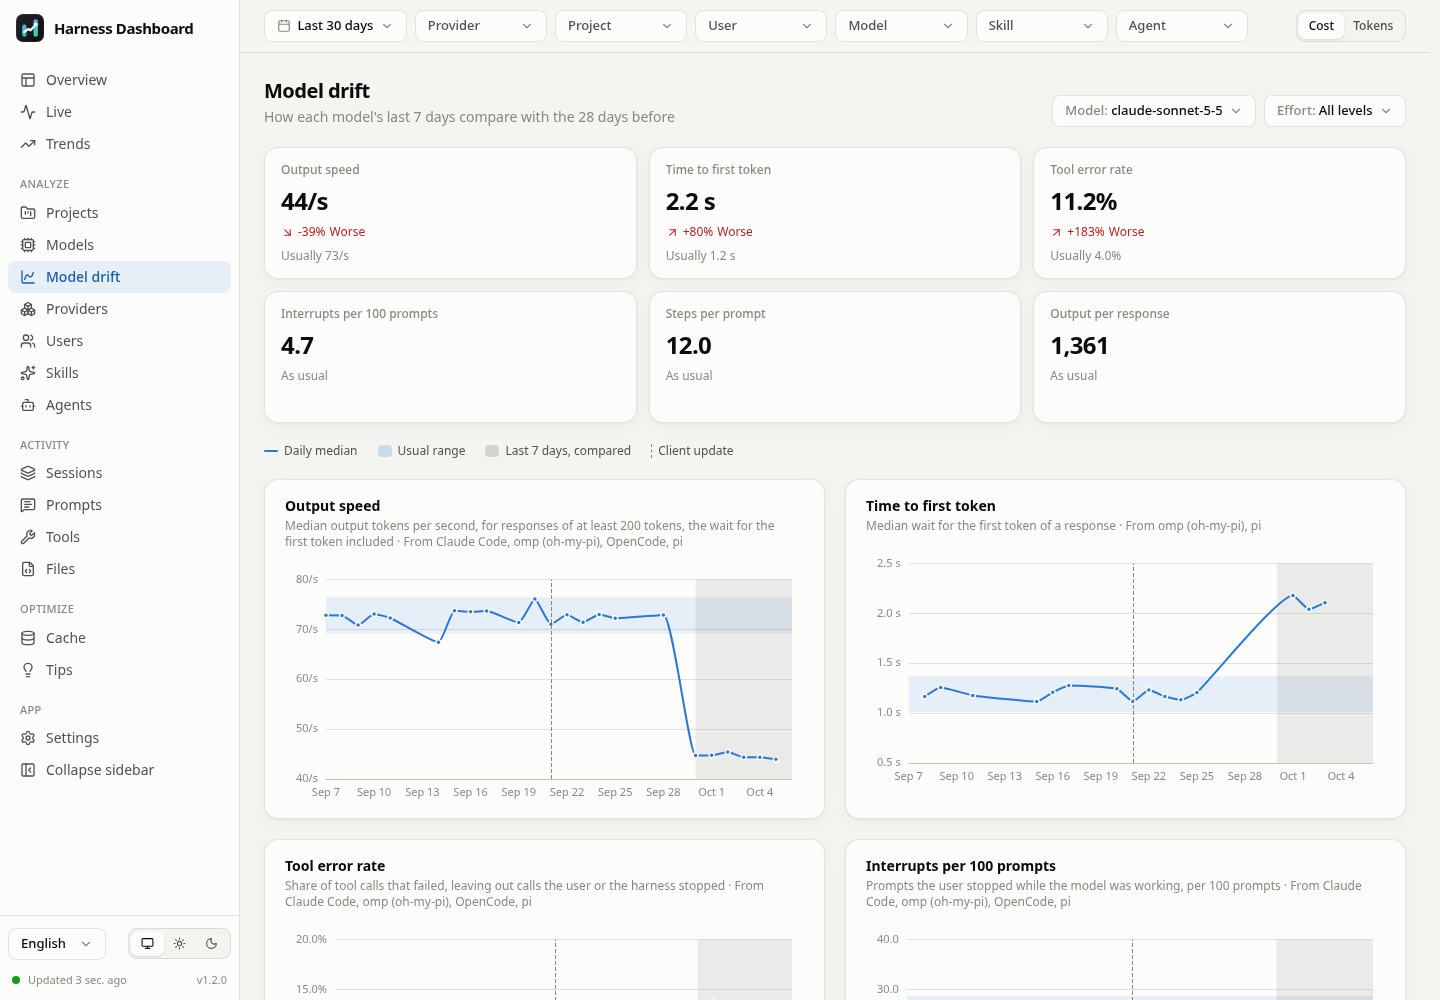
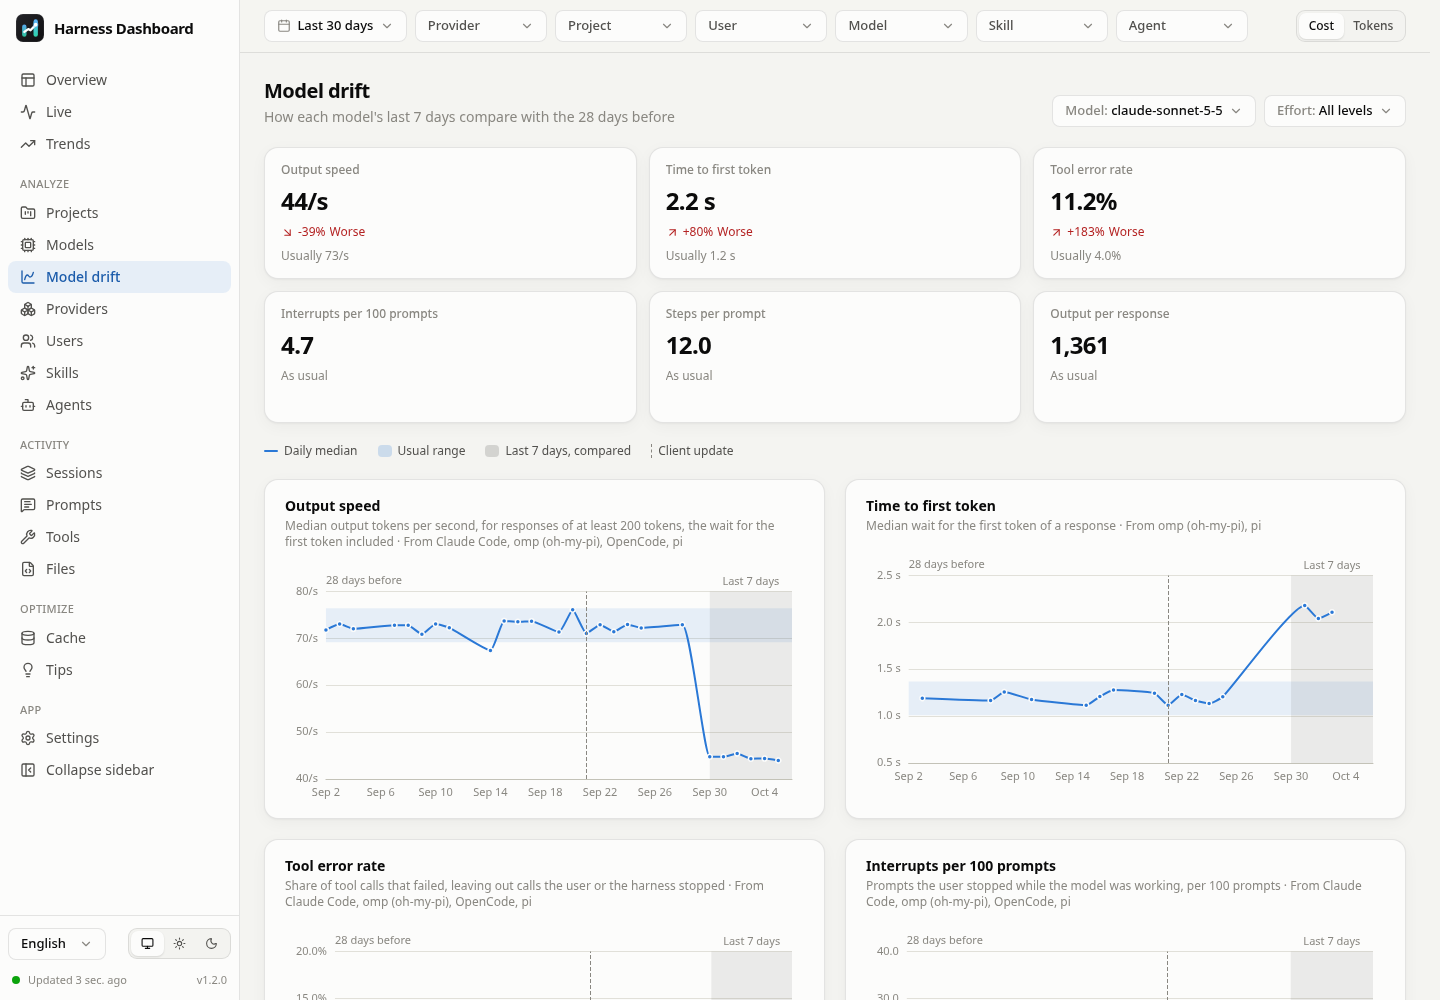
fix: chart exactly the two windows the drift view compares

diff --git a/web/src/lib/charts.ts b/web/src/lib/charts.ts
@@ -485,7 +485,7 @@ export function driftLine(o: {
   versions: { day: string; label: string }[];
   name: string;
   format: (v: number) => string;
-  labels: { samples: string; usual: string; update: string; recent: string };
+  labels: { samples: string; usual: string; update: string; recent: string; baselineWindow: string; recentWindow: string };
 }): EChartsOption {
   const c = chrome();
   const color = cssVar("--accent");
@@ -505,11 +505,15 @@ export function driftLine(o: {
   const extent = { min: Math.max(0, Math.floor((lo - pad) / step) * step), max: Math.ceil((hi + pad) / step) * step, step };
   const areas: unknown[] = [];
   if (o.band) areas.push([{ yAxis: o.band.lo, itemStyle: { color: withAlpha(color, 0.1) } }, { yAxis: o.band.hi }]);
-  if (recentIdx >= 0) areas.push([{ xAxis: recentIdx, itemStyle: { color: withAlpha(cssVar("--ink-2"), 0.1) } }, { xAxis: o.days.length - 1 }]);
+  // Each window named at the top of the plot, so it's clear which days are compared with which.
+  // Above the plot, clear of the update lines: the baseline's from its left edge, the recent window's centered.
+  const windowLabel = (text: string, position: [number, number] | "top") => ({ show: true, position, distance: 4, color: c.muted, fontSize: 11, formatter: text });
+  if (recentIdx > 0) areas.push([{ xAxis: 0, itemStyle: { color: "transparent" }, label: windowLabel(o.labels.baselineWindow, [0, -16]) }, { xAxis: recentIdx }]);
+  if (recentIdx >= 0) areas.push([{ xAxis: recentIdx, itemStyle: { color: withAlpha(cssVar("--ink-2"), 0.1) }, label: windowLabel(o.labels.recentWindow, "top") }, { xAxis: o.days.length - 1 }]);
   return {
     animationDuration: 300,
     textStyle: c.text,
-    grid: { left: 8, right: 12, top: 12, bottom: 4, containLabel: true },
+    grid: { left: 8, right: 12, top: 24, bottom: 4, containLabel: true },
     tooltip: {
       ...c.tooltip,
       trigger: "axis",

diff --git a/src/core/drift.ts b/src/core/drift.ts
@@ -9,7 +9,6 @@ import { type Filters, whereClause } from "./queries.ts";
 export type DriftMetric = "speed" | "ttft" | "toolErrors" | "interrupts" | "steps" | "output";
 export const DRIFT_METRICS: DriftMetric[] = ["speed", "ttft", "toolErrors", "interrupts", "steps", "output"];
 
-const DAY = 86_400_000;
 export const RECENT_DAYS = 7;
 export const BASELINE_DAYS = 28;
 /** Responses, tool calls or prompts each window needs before a metric is judged. */
@@ -303,8 +302,8 @@ export function drift(db: Database, f: Filters, opts: { model?: string | null; e
   };
   const recentFrom = dayStart(RECENT_DAYS - 1);
   const baselineFrom = dayStart(RECENT_DAYS + BASELINE_DAYS - 1);
-  const chartFrom = Math.max(f.from ?? baselineFrom, to - 400 * DAY);
-  const from = Math.min(chartFrom, baselineFrom);
+  // The range only sets where the windows end: the charts show exactly the two windows being compared.
+  const from = baselineFrom;
   const effort = opts.effort || null;
 
   // The model is chosen on this page. Outcomes carry no skill, so that filter applies to responses only.
@@ -355,7 +354,7 @@ export function drift(db: Database, f: Filters, opts: { model?: string | null; e
   }));
   const busiest = [...recentCount].sort((a, b) => (rank.get(b[0]) ?? 0) - (rank.get(a[0]) ?? 0) || b[1] - a[1])[0]?.[0];
   const model = opts.model || f.model || busiest || models[0]?.model || null;
-  const days = dayList(chartFrom, to);
+  const days = dayList(baselineFrom, to);
   let series: DriftSeries[] = [];
   let efforts: string[] = [];
   let versions: Drift["versions"] = [];

diff --git a/tests/drift.test.ts b/tests/drift.test.ts
@@ -93,9 +93,10 @@ describe("drift", () => {
     expect(none.series.every((s) => s.counts.every((n) => n === 0))).toBe(true);
   });
 
-  test("daily values cover the chart range", () => {
+  test("the charts cover the two compared windows, whatever the range's start", () => {
     const d = drift(seed(), { from: NOW - 10 * DAY, to: NOW }, { now: NOW });
-    expect(d.days).toHaveLength(11);
+    expect(d.days).toHaveLength(35);
+    expect(d.days[0]! < d.days[28]!).toBe(true);
     const speed = d.series.find((s) => s.key === "speed")!;
     expect(speed.values.every((v) => v != null && v > 40 && v < 55)).toBe(true);
     expect(speed.counts.every((n) => n === 20)).toBe(true);

diff --git a/web/src/pages/ModelDrift.svelte b/web/src/pages/ModelDrift.svelte
@@ -77,7 +77,10 @@
           versions: data.versions,
           name: label(s.key),
           format: FORMAT[s.key],
-          labels: { samples: t("drift.samples"), usual: t("drift.usualRange"), update: t("drift.update"), recent: t("drift.recent") },
+          labels: { samples: t("drift.samples"), usual: t("drift.usualRange"), update: t("drift.update"), recent: t("drift.recent"),
+            baselineWindow: t("drift.window.baseline", { n: data.window.baselineDays }),
+            recentWindow: t("drift.window.recent", { n: data.window.recentDays }),
+          },
         }),
       ]),
     );

diff --git a/web/src/lib/locales/es.ts b/web/src/lib/locales/es.ts
@@ -377,6 +377,8 @@ export const es: Record<MessageKey, string> = {
   "drift.usualRange": "Rango habitual",
   "drift.legend.daily": "Mediana diaria",
   "drift.legend.recent": "Últimos {n} días, comparados",
+  "drift.window.baseline": "{n} días anteriores",
+  "drift.window.recent": "Últimos {n} días",
   "drift.update": "Actualización del cliente",
   "drift.recent": "comparado",
   "drift.allModels": "Todos los modelos",

diff --git a/web/src/lib/locales/fr.ts b/web/src/lib/locales/fr.ts
@@ -377,6 +377,8 @@ export const fr: Record<MessageKey, string> = {
   "drift.usualRange": "Plage habituelle",
   "drift.legend.daily": "Médiane du jour",
   "drift.legend.recent": "{n} derniers jours, comparés",
+  "drift.window.baseline": "{n} jours précédents",
+  "drift.window.recent": "{n} derniers jours",
   "drift.update": "Mise à jour du client",
   "drift.recent": "comparé",
   "drift.allModels": "Tous les modèles",

diff --git a/web/src/lib/locales/pl.ts b/web/src/lib/locales/pl.ts
@@ -377,6 +377,8 @@ export const pl: Record<MessageKey, string> = {
   "drift.usualRange": "Zwykły zakres",
   "drift.legend.daily": "Mediana dzienna",
   "drift.legend.recent": "Ostatnie {n} dni, porównywane",
+  "drift.window.baseline": "{n} dni wcześniej",
+  "drift.window.recent": "Ostatnie {n} dni",
   "drift.update": "Aktualizacja klienta",
   "drift.recent": "porównywane",
   "drift.allModels": "Wszystkie modele",

diff --git a/web/src/lib/locales/de.ts b/web/src/lib/locales/de.ts
@@ -377,6 +377,8 @@ export const de: Record<MessageKey, string> = {
   "drift.usualRange": "Üblicher Bereich",
   "drift.legend.daily": "Tagesmedian",
   "drift.legend.recent": "Letzte {n} Tage, verglichen",
+  "drift.window.baseline": "{n} Tage davor",
+  "drift.window.recent": "Letzte {n} Tage",
   "drift.update": "Client-Update",
   "drift.recent": "verglichen",
   "drift.allModels": "Alle Modelle",

diff --git a/web/src/lib/locales/en.ts b/web/src/lib/locales/en.ts
@@ -375,6 +375,8 @@ export const en = {
   "drift.usualRange": "Usual range",
   "drift.legend.daily": "Daily median",
   "drift.legend.recent": "Last {n} days, compared",
+  "drift.window.baseline": "{n} days before",
+  "drift.window.recent": "Last {n} days",
   "drift.update": "Client update",
   "drift.recent": "compared",
   "drift.allModels": "All models",
